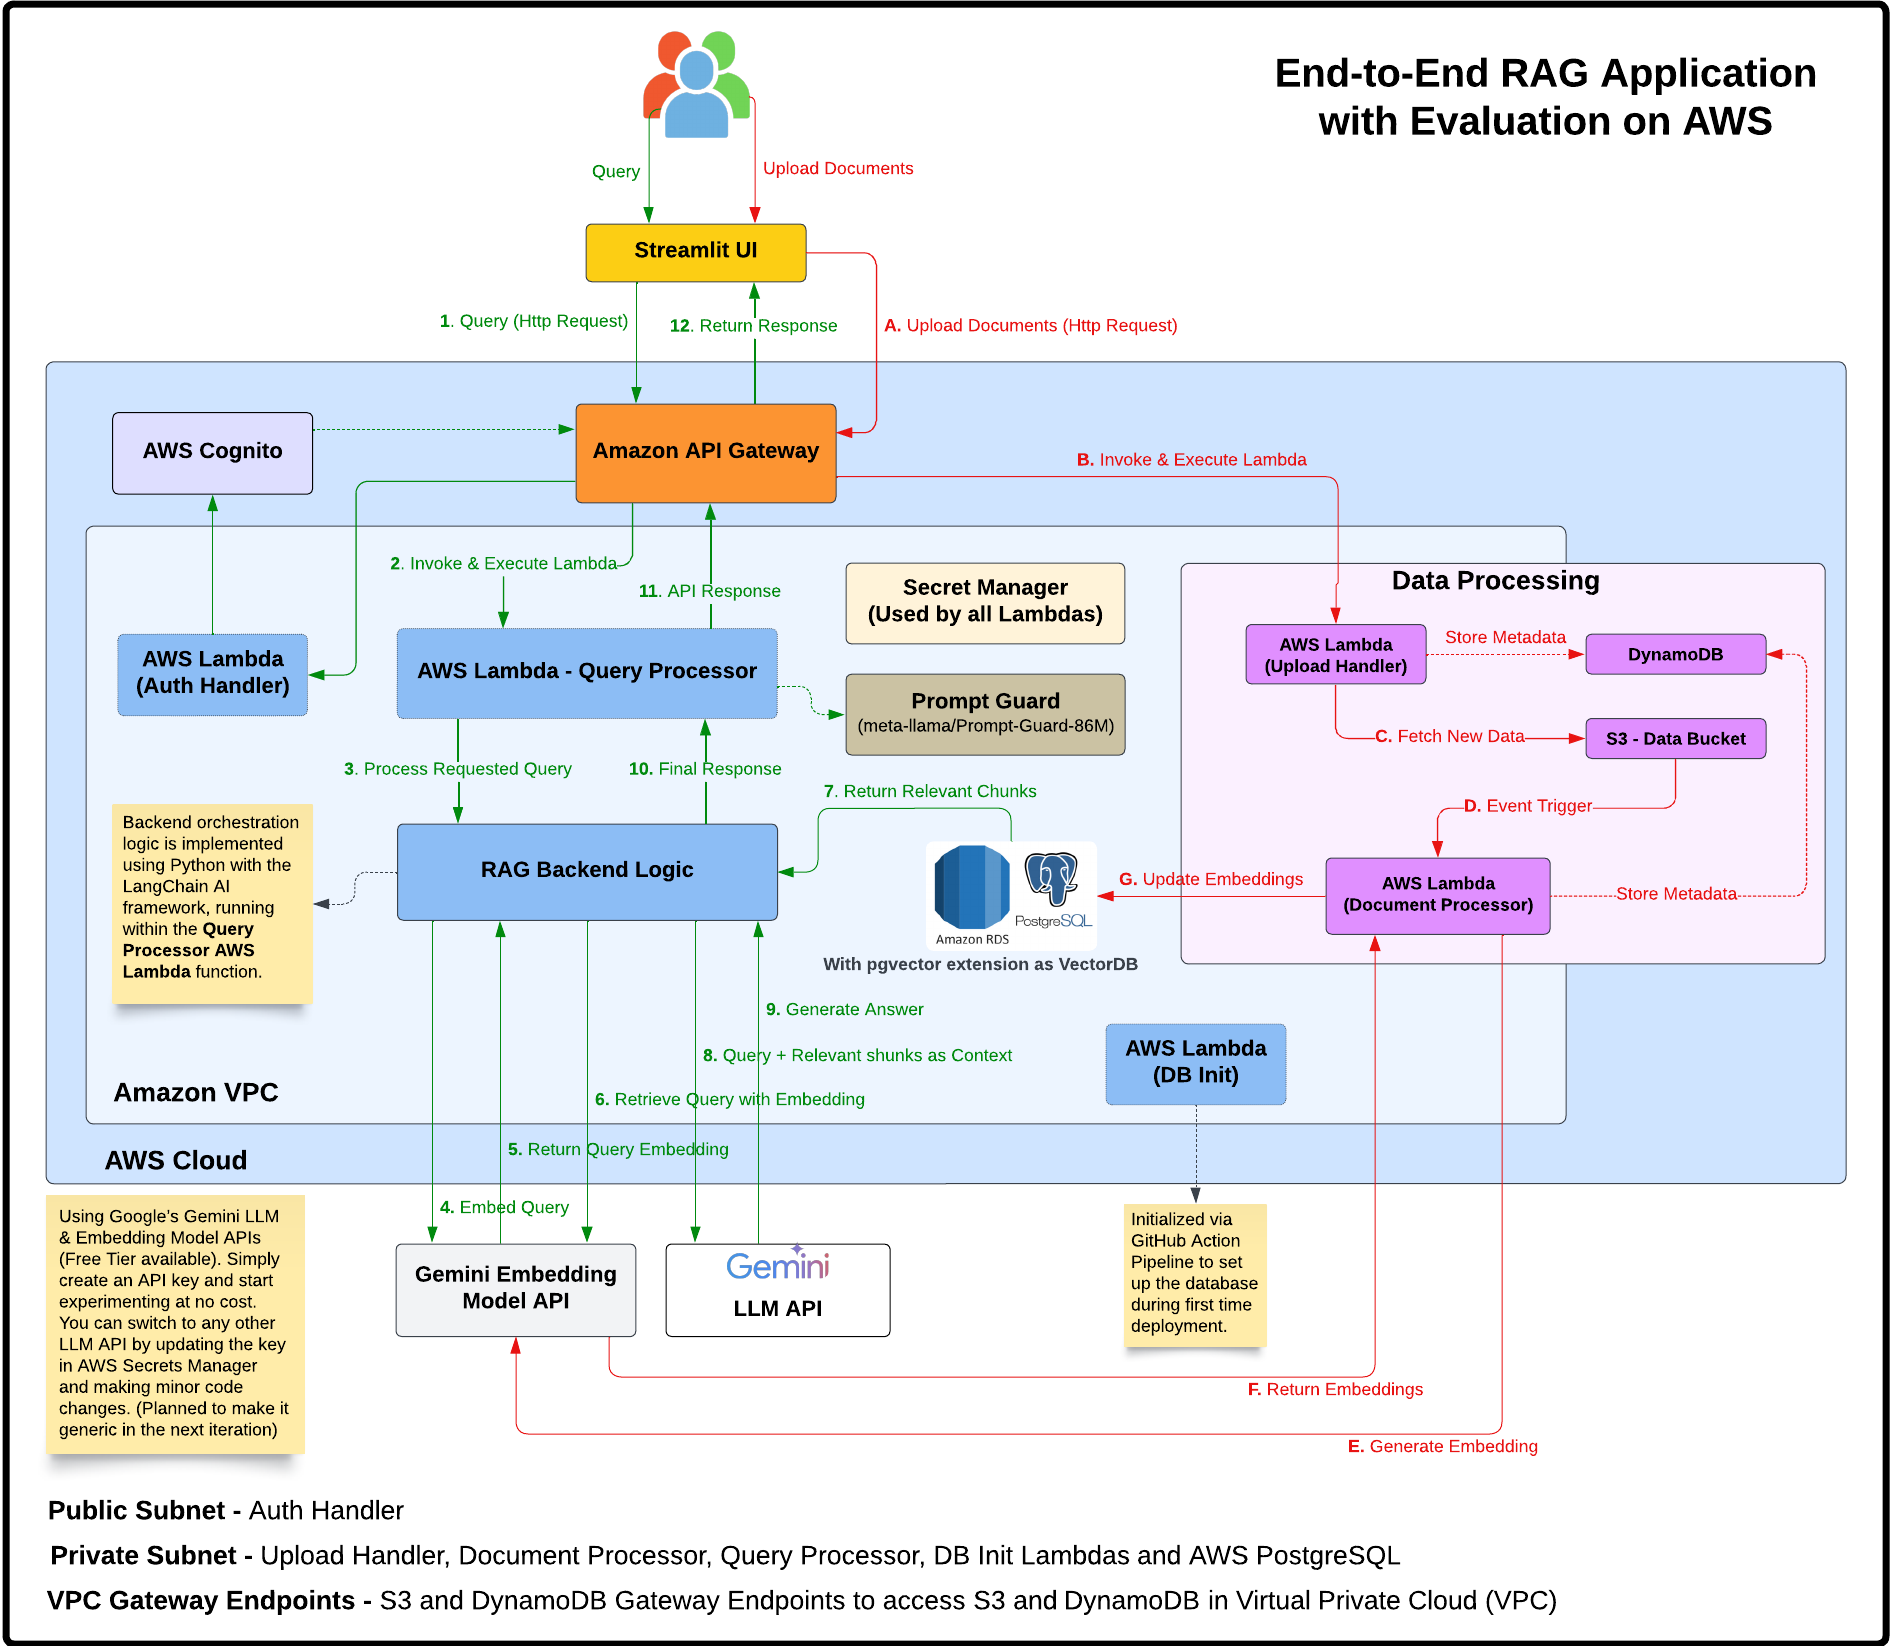
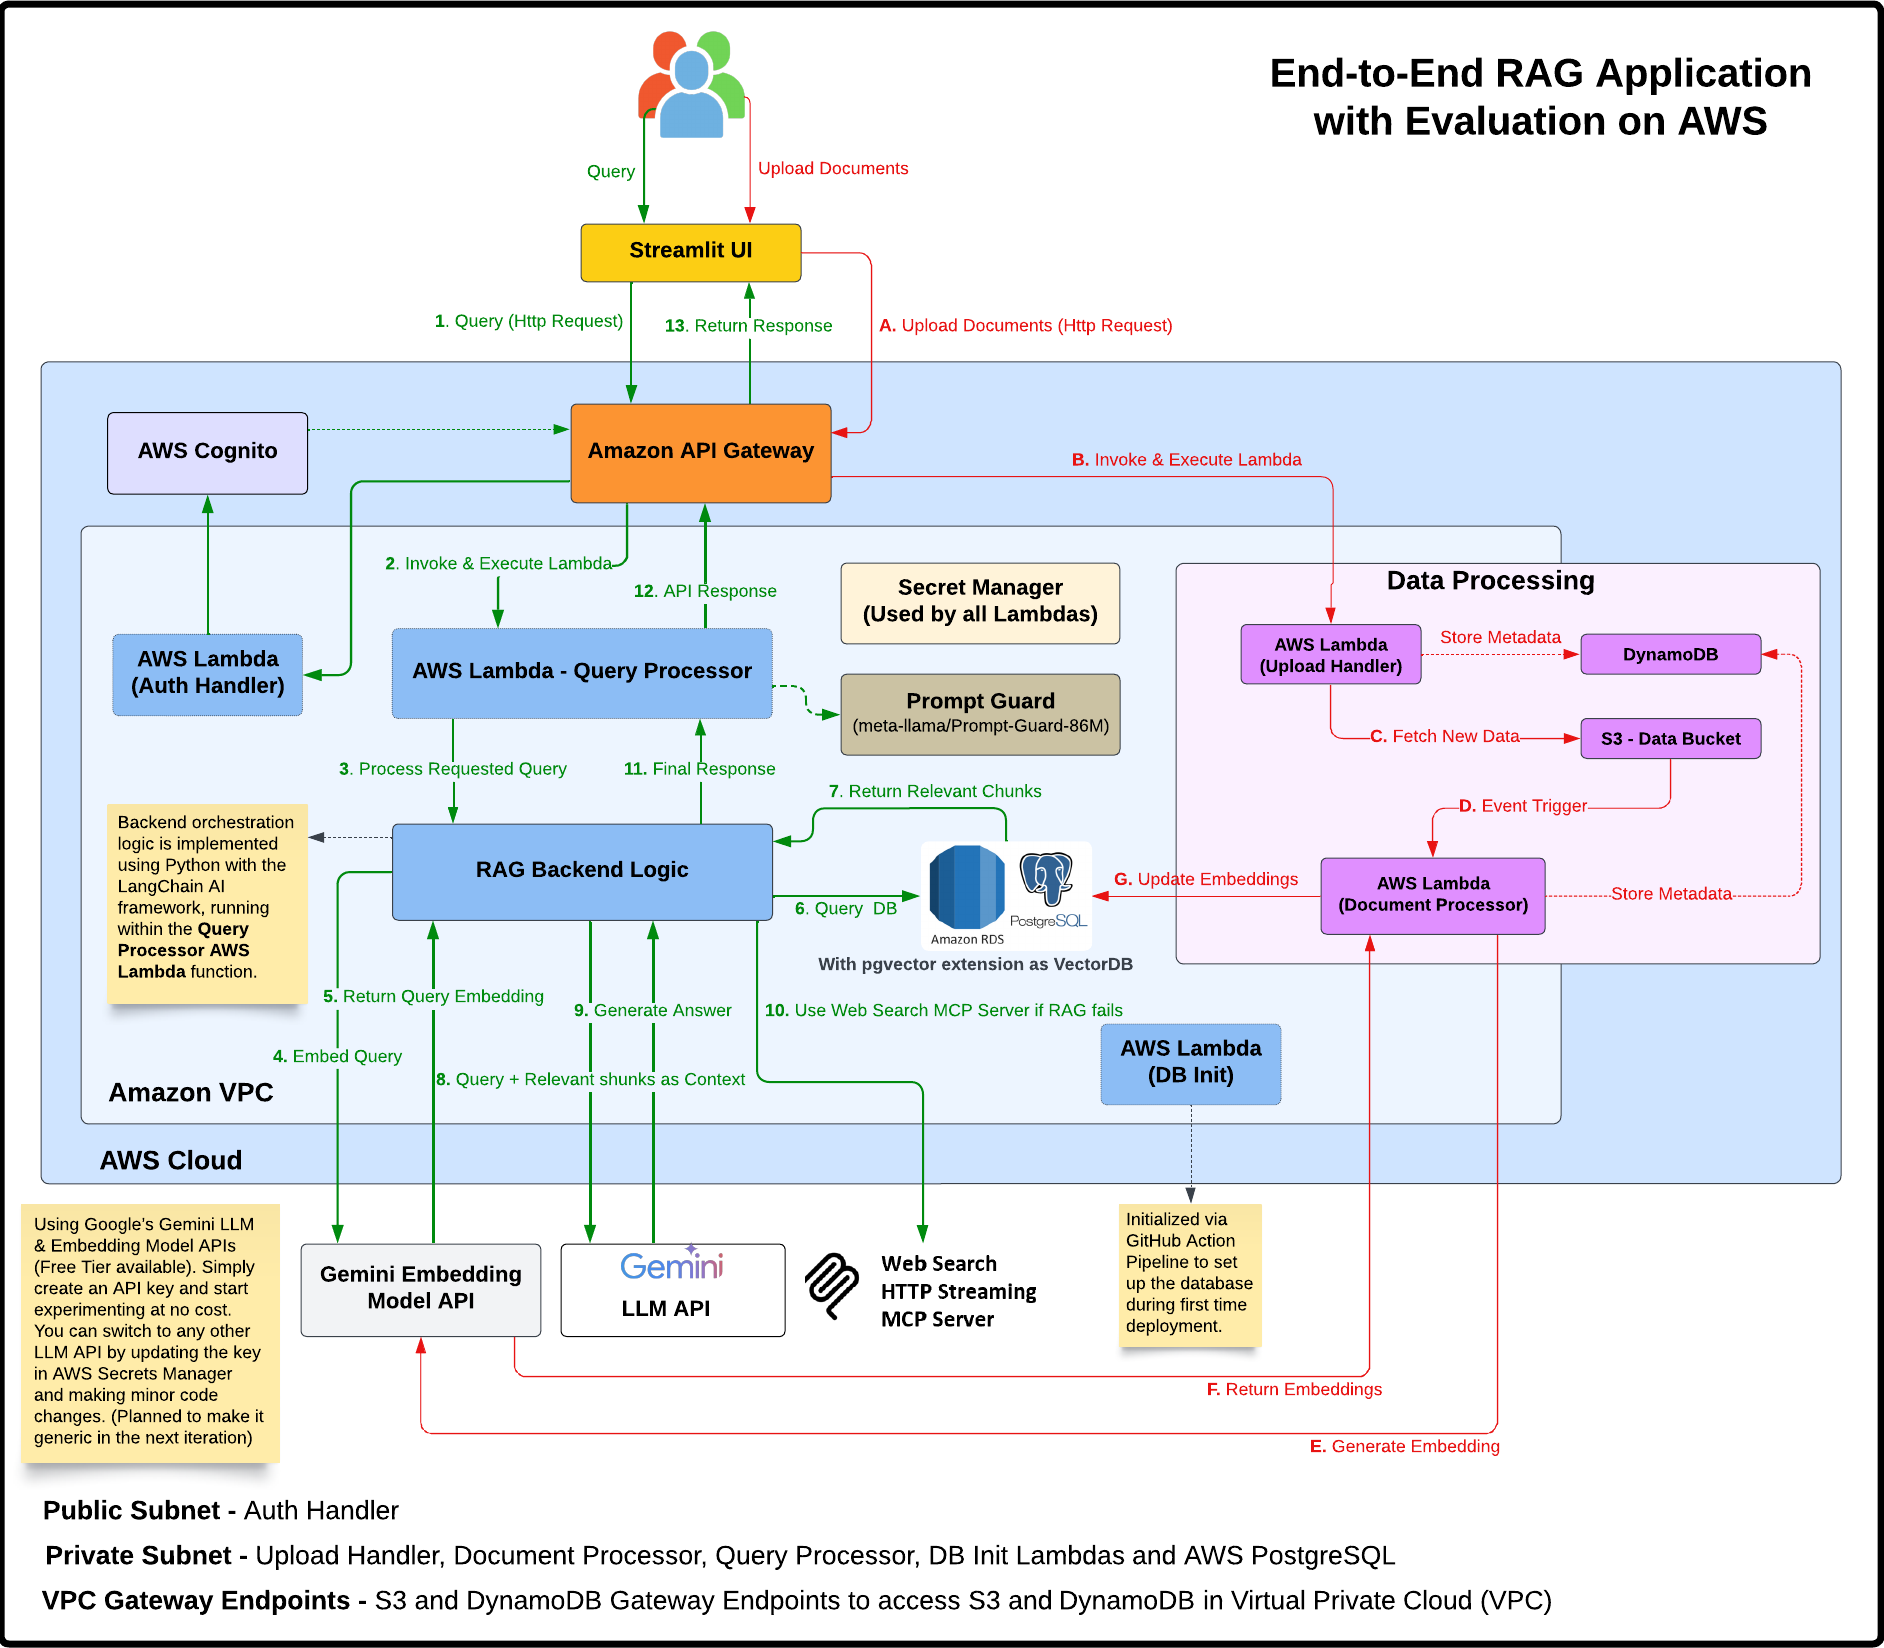
Updated README file

diff --git a/rag_ui/README.md b/rag_ui/README.md
@@ -13,8 +13,9 @@ A web interface to upload documents, query them using natural language, and retr
 
 - Secure Cognito-based user authentication with auto token refresh
 - Upload, view, and manage various document types
-- AI-powered querying with relevance scoring and history
-- Clean, intuitive Streamlit UI
+- AI-powered querying using RAG with relevance scoring and history
+- RAG Evaluation
+- Uses the Web Search option via a locally or cloud-hosted MCP Server (HTTP Streaming) when RAG results are insufficient.
 
 ### 🔁 Application Flow Diagrams
 
@@ -30,8 +31,8 @@ A web interface to upload documents, query them using natural language, and retr
 
 ### ⚙ Prerequisites
 
-- Python 3.8+
-- Streamlit 1.45.0+
+- Python 
+- Streamlit 
 - AWS account with backend APIs deployed
 
 ### 🚀 Installation
@@ -102,10 +103,11 @@ Uploaded docs are:
 - Embedded into vectors
 - Indexed for semantic retrieval
 
-### 🔗 Related Projects
+### 🔗 Related Dependencies
 
 - [RAG Backend & Infra](https://github.com/genieincodebottle/rag-app-on-aws): Terraform infrastructure and backend Lambda codebase.
 
+- [MCP Server](https://github.com/genieincodebottle/rag-app-on-aws/mcp_servers): MCP Server running locally
 ---
 
 **Note**: Designed for use with [rag-app-on-aws](https://github.com/genieincodebottle/rag-app-on-aws) backend infrastructure.
